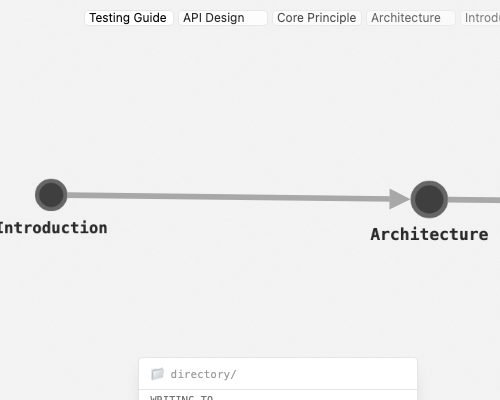
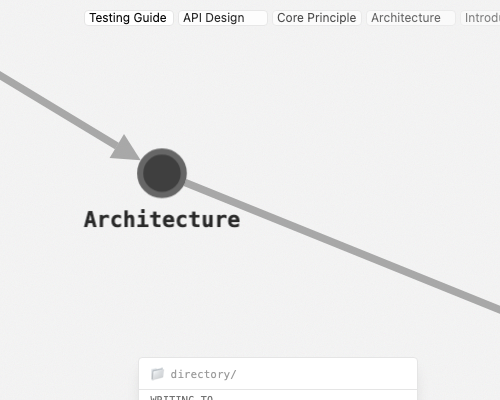
full ultimate layout

Changed region(s): [[0.0, 0.18, 1.0, 0.78]]

diff --git a/webapp/src/shell/UI/cytoscape-graph-ui/graphviz/layout/autoLayout.ts b/webapp/src/shell/UI/cytoscape-graph-ui/graphviz/layout/autoLayout.ts
@@ -2,13 +2,13 @@
  * Auto Layout: Automatically run Cola or fcose layout on graph changes
  *
  * Layout strategy:
- * - Initial load: fCOSE for global positioning → Cola for refinement
+ * - Initial load / tidy button / removal: "Full Ultimate Layout" chain:
+ *   fCOSE (global positioning) → Cola (refinement) → animated cy.fit() (frame result)
  * - Incremental (batch-added nodes <30% of graph):
  *   Local Cola on 4-hop neighborhood of new nodes (6-hop pinned boundary)
- * - Removal (no new nodes tracked): global Cola to rebalance
  * - Batch (>30% new): skip (too many nodes for local Cola)
  *
- * fCOSE is only used on initial load because its gravity pulls nodes too aggressively
+ * fCOSE is only used on initial/full layouts because its gravity pulls nodes too aggressively
  * for incremental layout updates. Cola handles all ongoing layout after the first run.
  *
  * NOTE (commit 033c57a4): We tried a two-phase layout algorithm that ran Phase 1 with only
@@ -21,6 +21,7 @@
 
 import type {Core, EdgeSingular, NodeSingular, NodeDefinition, CollectionReturnValue, Layouts, EventObject} from 'cytoscape';
 import ColaLayout from './cola';
+import { computeColaAndAnimate } from './computeColaAndAnimate';
 import { getEdgeDistance } from './cytoscape-graph-constants';
 import { refreshSpatialIndex, getCurrentIndex } from '@/shell/UI/cytoscape-graph-ui/services/spatialIndexSync';
 import { queryEdgesInRect } from '@/pure/graph/spatial';
@@ -30,6 +31,7 @@ import type { LocalGeometry, EdgeSegment } from '@/pure/graph/geometry';
 // Import to make Window.electronAPI type available
 import type {} from '@/shell/electron';
 import { panToTrackedNode, clearPendingPan } from '@/shell/edge/UI-edge/state/PendingPanStore';
+import { getResponsivePadding } from '@/utils/responsivePadding';
 import { onSettingsChange } from '@/shell/edge/UI-edge/api';
 import type { AutoLayoutOptions, LayoutConfig, FcoseLayoutOptions } from './autoLayoutTypes';
 import { DEFAULT_OPTIONS, DEFAULT_FCOSE_OPTIONS, COLA_ANIMATE_DURATION, COLA_FAST_ANIMATE_DURATION } from './autoLayoutTypes';
@@ -40,46 +42,6 @@ import { layoutTriggers, colaLayoutTriggers, dirtyNodeMarkers, fullLayoutTrigger
 // Re-export public API from sibling modules
 export type { AutoLayoutOptions } from './autoLayoutTypes';
 export { triggerLayout, triggerColaLayout, markNodeDirty, triggerFullLayout } from './autoLayoutTriggers';
-
-/**
- * Compute Cola layout synchronously, then smoothly animate nodes to final positions.
- * Avoids Cola's frame-1 teleport caused by synchronous initial constraint iterations.
- */
-const computeColaAndAnimate: (
-  colaLayoutOpts: Record<string, unknown>,
-  nodes: CollectionReturnValue,
-  duration: number,
-  onComplete: () => void
-) => void = (colaLayoutOpts, nodes, duration, onComplete) => {
-  const startPos: Map<string, { x: number; y: number }> = new Map();
-  nodes.forEach((n: NodeSingular) => { startPos.set(n.id(), { ...n.position() }); });
-
-  // eslint-disable-next-line @typescript-eslint/no-explicit-any
-  const layout: any = new (ColaLayout as any)({ ...colaLayoutOpts, animate: false });
-
-  layout.one('layoutstop', () => {
-    const endPos: Map<string, { x: number; y: number }> = new Map();
-    nodes.forEach((n: NodeSingular) => { endPos.set(n.id(), { ...n.position() }); });
-
-    // Reset to original positions
-    nodes.forEach((n: NodeSingular) => {
-      const s: { x: number; y: number } | undefined = startPos.get(n.id());
-      if (s) n.position(s);
-    });
-
-    // Animate to computed final positions
-    nodes.forEach((n: NodeSingular) => {
-      const e: { x: number; y: number } | undefined = endPos.get(n.id());
-      if (e) n.animate({ position: e }, { duration, easing: 'ease-in-out-cubic' });
-    });
-
-    setTimeout(() => {
-      // panToTrackedNode(colaLayoutOpts.cy as Core);
-      onComplete();
-    }, duration + 16);
-  });
-  layout.run();
-};
 
 /**
  * Enable automatic layout on graph changes
@@ -120,7 +82,7 @@ export function enableAutoLayout(cy: Core, options: AutoLayoutOptions = {}): () 
 
   // Safety timeout: if a Cola/fCOSE layoutstop event never fires, layoutRunning
   // stays true and the entire layout system dies. This timeout forces a reset.
-  const LAYOUT_SAFETY_TIMEOUT_MS: number = 5_000;
+  const LAYOUT_SAFETY_TIMEOUT_MS: number = 8_000;
 
   // Track newly added node IDs for local Cola layout
   const pendingNewNodeIds: Set<string> = new Set<string>();
@@ -241,6 +203,22 @@ export function enableAutoLayout(cy: Core, options: AutoLayoutOptions = {}): () 
       (onComplete ?? onLayoutComplete)();
     });
     layout.run();
+  };
+
+  /** Full ultimate layout chain: fCOSE → Cola → animated cy.fit() */
+  const runFullUltimateLayout: (onComplete?: () => void) => void = (onComplete) => {
+    runFcoseLayout(undefined, () => {
+      runColaLayout(() => {
+        const padding: number = getResponsivePadding(cy, 15);
+        cy.animate({
+          fit: { eles: cy.elements(), padding },
+        }, {
+          duration: 300,
+          easing: 'ease-in-out-cubic',
+          complete: () => { (onComplete ?? onLayoutComplete)(); },
+        });
+      });
+    });
   };
 
   /**
@@ -387,18 +365,16 @@ export function enableAutoLayout(cy: Core, options: AutoLayoutOptions = {}): () 
 
     try {
       if (!hasRunInitialLayout) {
-        // Initial load: fCOSE for global positioning, then Cola to refine
+        // Initial load: full ultimate layout (fCOSE → Cola → fit)
         hasRunInitialLayout = true;
-        runFcoseLayout(undefined, () => {
-          runColaLayout();
-        });
+        runFullUltimateLayout();
       } else if (newNodeIds.size > 0 && newNodeIds.size < totalNodes * 0.3) {
         // Incremental: local Cola on neighborhood of new nodes
         runLocalCola(newNodeIds, onLayoutComplete);
       } else if (newNodeIds.size === 0) {
-        // Triggered by edge/node remove — run global Cola to rebalance the graph
-        console.log(`[AutoLayout] Layout triggered by removal (layoutCount=${layoutCount}, totalNodes=${totalNodes}). Running global Cola.`);
-        runColaLayout();
+        // Triggered by edge/node remove — full ultimate layout to rebalance
+        console.log(`[AutoLayout] Layout triggered by removal (layoutCount=${layoutCount}, totalNodes=${totalNodes}). Running full ultimate layout.`);
+        runFullUltimateLayout();
       } else {
         // >30% new nodes — batch too large for local Cola, skip
         console.warn(`[AutoLayout] ⚠ Batch add: ${newNodeIds.size} new nodes (${Math.round(newNodeIds.size / totalNodes * 100)}% of graph). Skipping local Cola.`);
@@ -459,18 +435,18 @@ export function enableAutoLayout(cy: Core, options: AutoLayoutOptions = {}): () 
     debouncedRunLayout();
   });
 
-  // Register cola layout trigger for manual "tidy up" button
-  // Runs fCOSE for global positioning then Cola for refinement (same as initial load)
+  // Register cola layout trigger for manual "tidy up" button (full ultimate layout: fCOSE → Cola → fit)
   colaLayoutTriggers.set(cy, () => {
-    if (layoutRunning) {
-      layoutQueued = true;
-      return;
-    }
+    if (layoutRunning) { layoutQueued = true; return; }
     if (cy.nodes().length === 0) return;
     layoutRunning = true;
-    runFcoseLayout(undefined, () => {
-      runColaLayout();
-    });
+    layoutSafetyTimeout = setTimeout(() => {
+      if (layoutRunning) {
+        console.error(`[AutoLayout] ⚠ Safety timeout (${LAYOUT_SAFETY_TIMEOUT_MS}ms) — tidy callback never fired, force-resetting.`);
+        onLayoutComplete();
+      }
+    }, LAYOUT_SAFETY_TIMEOUT_MS);
+    runFullUltimateLayout();
   });
 
   //console.log('[AutoLayout] Auto-layout enabled');

diff --git a/webapp/src/shell/UI/cytoscape-graph-ui/graphviz/layout/computeColaAndAnimate.ts b/webapp/src/shell/UI/cytoscape-graph-ui/graphviz/layout/computeColaAndAnimate.ts
@@ -1,0 +1,43 @@
+/**
+ * Compute Cola layout synchronously, then smoothly animate nodes to final positions.
+ * Avoids Cola's frame-1 teleport caused by synchronous initial constraint iterations.
+ */
+
+import type { NodeSingular, CollectionReturnValue } from 'cytoscape';
+import ColaLayout from './cola';
+
+export const computeColaAndAnimate: (
+  colaLayoutOpts: Record<string, unknown>,
+  nodes: CollectionReturnValue,
+  duration: number,
+  onComplete: () => void
+) => void = (colaLayoutOpts, nodes, duration, onComplete) => {
+  const startPos: Map<string, { x: number; y: number }> = new Map();
+  nodes.forEach((n: NodeSingular) => { startPos.set(n.id(), { ...n.position() }); });
+
+  // eslint-disable-next-line @typescript-eslint/no-explicit-any
+  const layout: any = new (ColaLayout as any)({ ...colaLayoutOpts, animate: false });
+
+  layout.one('layoutstop', () => {
+    const endPos: Map<string, { x: number; y: number }> = new Map();
+    nodes.forEach((n: NodeSingular) => { endPos.set(n.id(), { ...n.position() }); });
+
+    // Reset to original positions
+    nodes.forEach((n: NodeSingular) => {
+      const s: { x: number; y: number } | undefined = startPos.get(n.id());
+      if (s) n.position(s);
+    });
+
+    // Animate to computed final positions
+    nodes.forEach((n: NodeSingular) => {
+      const e: { x: number; y: number } | undefined = endPos.get(n.id());
+      if (e) n.animate({ position: e }, { duration, easing: 'ease-in-out-cubic' });
+    });
+
+    setTimeout(() => {
+      // panToTrackedNode(colaLayoutOpts.cy as Core);
+      onComplete();
+    }, duration + 16);
+  });
+  layout.run();
+};

diff --git a/webapp/src/pure/settings/DEFAULT_SETTINGS.ts b/webapp/src/pure/settings/DEFAULT_SETTINGS.ts
@@ -159,11 +159,11 @@ VOICETREE_MCP_PORT = $VOICETREE_MCP_PORT
         // fCOSE (used for initial folder load only)
         quality: 'default',
         animate: true,
-        animationDuration: 1000,
+        animationDuration: 4000,
         fit: false,
         incremental: true,
         numIter: 2500,
-        initialEnergyOnIncremental: 0.15,
+        initialEnergyOnIncremental: 0.4,
         gravity: 0.02,
         gravityRange: 1.5,
         gravityCompound: 1.0,

diff --git a/meta/workflows/fix_test_failures.md b/meta/workflows/fix_test_failures.md
@@ -1,7 +1,7 @@
 ---
 position:
-  x: 32256
-  y: 104
+  x: 57276
+  y: -846
 isContextNode: false
 ---
 1. Out of the categories think hard, how could you best divide these into up to 7 different groupings to send to subagents?

diff --git a/meta/workflows/categorize_test_faliures.md b/meta/workflows/categorize_test_faliures.md
@@ -1,7 +1,7 @@
 ---
 position:
-  x: 31894
-  y: 113
+  x: 57638
+  y: -846
 isContextNode: false
 ---
 TASK 1
